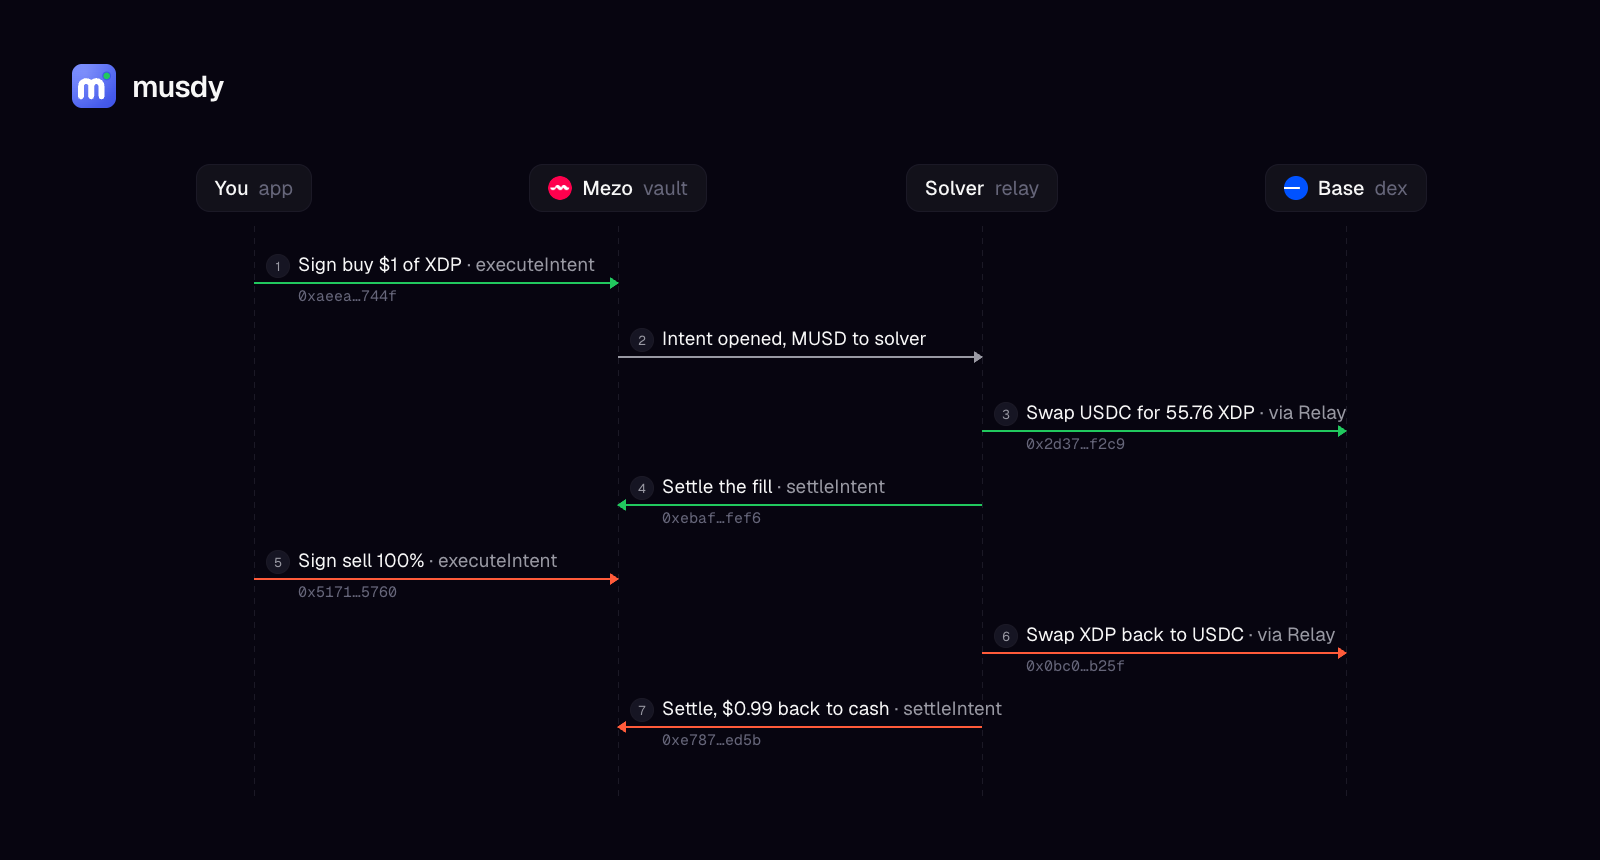
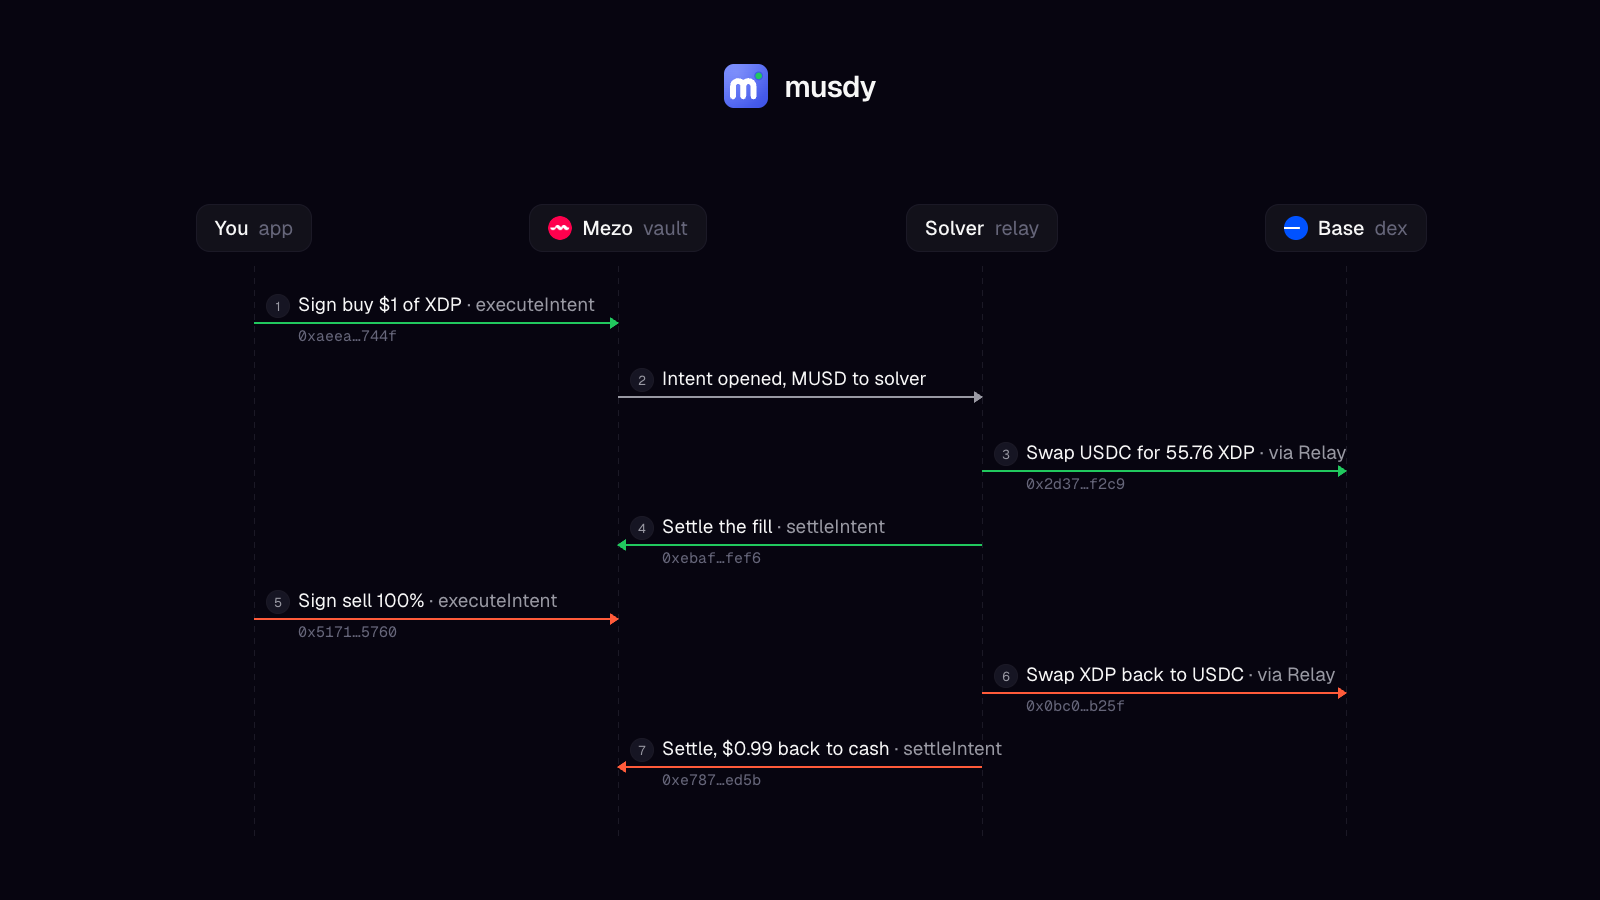
docs: architecture image, single mobile login

diff --git a/web/src/components/screens/feed-screen.tsx b/web/src/components/screens/feed-screen.tsx
@@ -10,12 +10,10 @@ import { LoginOptions } from "../login-sheet";
 import { ScreenHeader } from "../screen-header";
 import { UnderlineTabs } from "../underline-tabs";
 import { EmptyState } from "../ui/empty-state";
-import { Button } from "../ui/button";
 import { Menu, MenuPopup, MenuRadioGroup, MenuRadioItem, MenuTrigger } from "../ui/menu";
 import { useTradeList } from "@/hooks/use-feed";
 import { useSession } from "@/hooks/use-session";
 import { api } from "@/lib/http";
-import { openSheet } from "@/lib/ui";
 import { cn } from "@/lib/utils";
 
 type Side = "all" | "buy" | "sell";
@@ -68,11 +66,8 @@ export function FeedScreen() {
         }
       />
       {ready && !address && !following && (
-        <div className="mx-4 mb-3 flex items-center gap-3 rounded-[14px] bg-surface py-3 pr-3 pl-4 lg:mx-6" data-testid="feed-intro">
+        <div className="mx-4 mb-3 flex items-center gap-3 rounded-[14px] bg-surface px-4 py-3 lg:mx-6" data-testid="feed-intro">
           <p className="flex-1 text-[15px] leading-[21px] text-text-2">Copy real traders in one tap. One USD balance, no gas.</p>
-          <Button variant="primary" size="sm" className="h-10 shrink-0 px-4" onClick={() => openSheet("login")}>
-            Log in
-          </Button>
         </div>
       )}
       <UnderlineTabs

diff --git a/README.md b/README.md
@@ -21,6 +21,12 @@ your balance is MUSD, mezo's dollar backed by bitcoin, held for you in the musdy
 
 bitcoin and stocks trade through mezo pools. a coin launched on musdy starts on a bonding curve, and when the curve sells out it moves into its own mezo pool with the liquidity locked forever. every trade costs 0.5%.
 
+## architecture
+
+![musdy architecture](docs/images/architecture.png)
+
+you sign, the server pays the gas and submits it to the vault on mezo. coins on other chains are filled by the solver through relay and settled back to the vault.
+
 ## proof
 
 every step below is a real transaction. the vault and its ledger live on mezo testnet, the coins are bought and sold on base and bnb chain mainnet with real usdc through relay.
